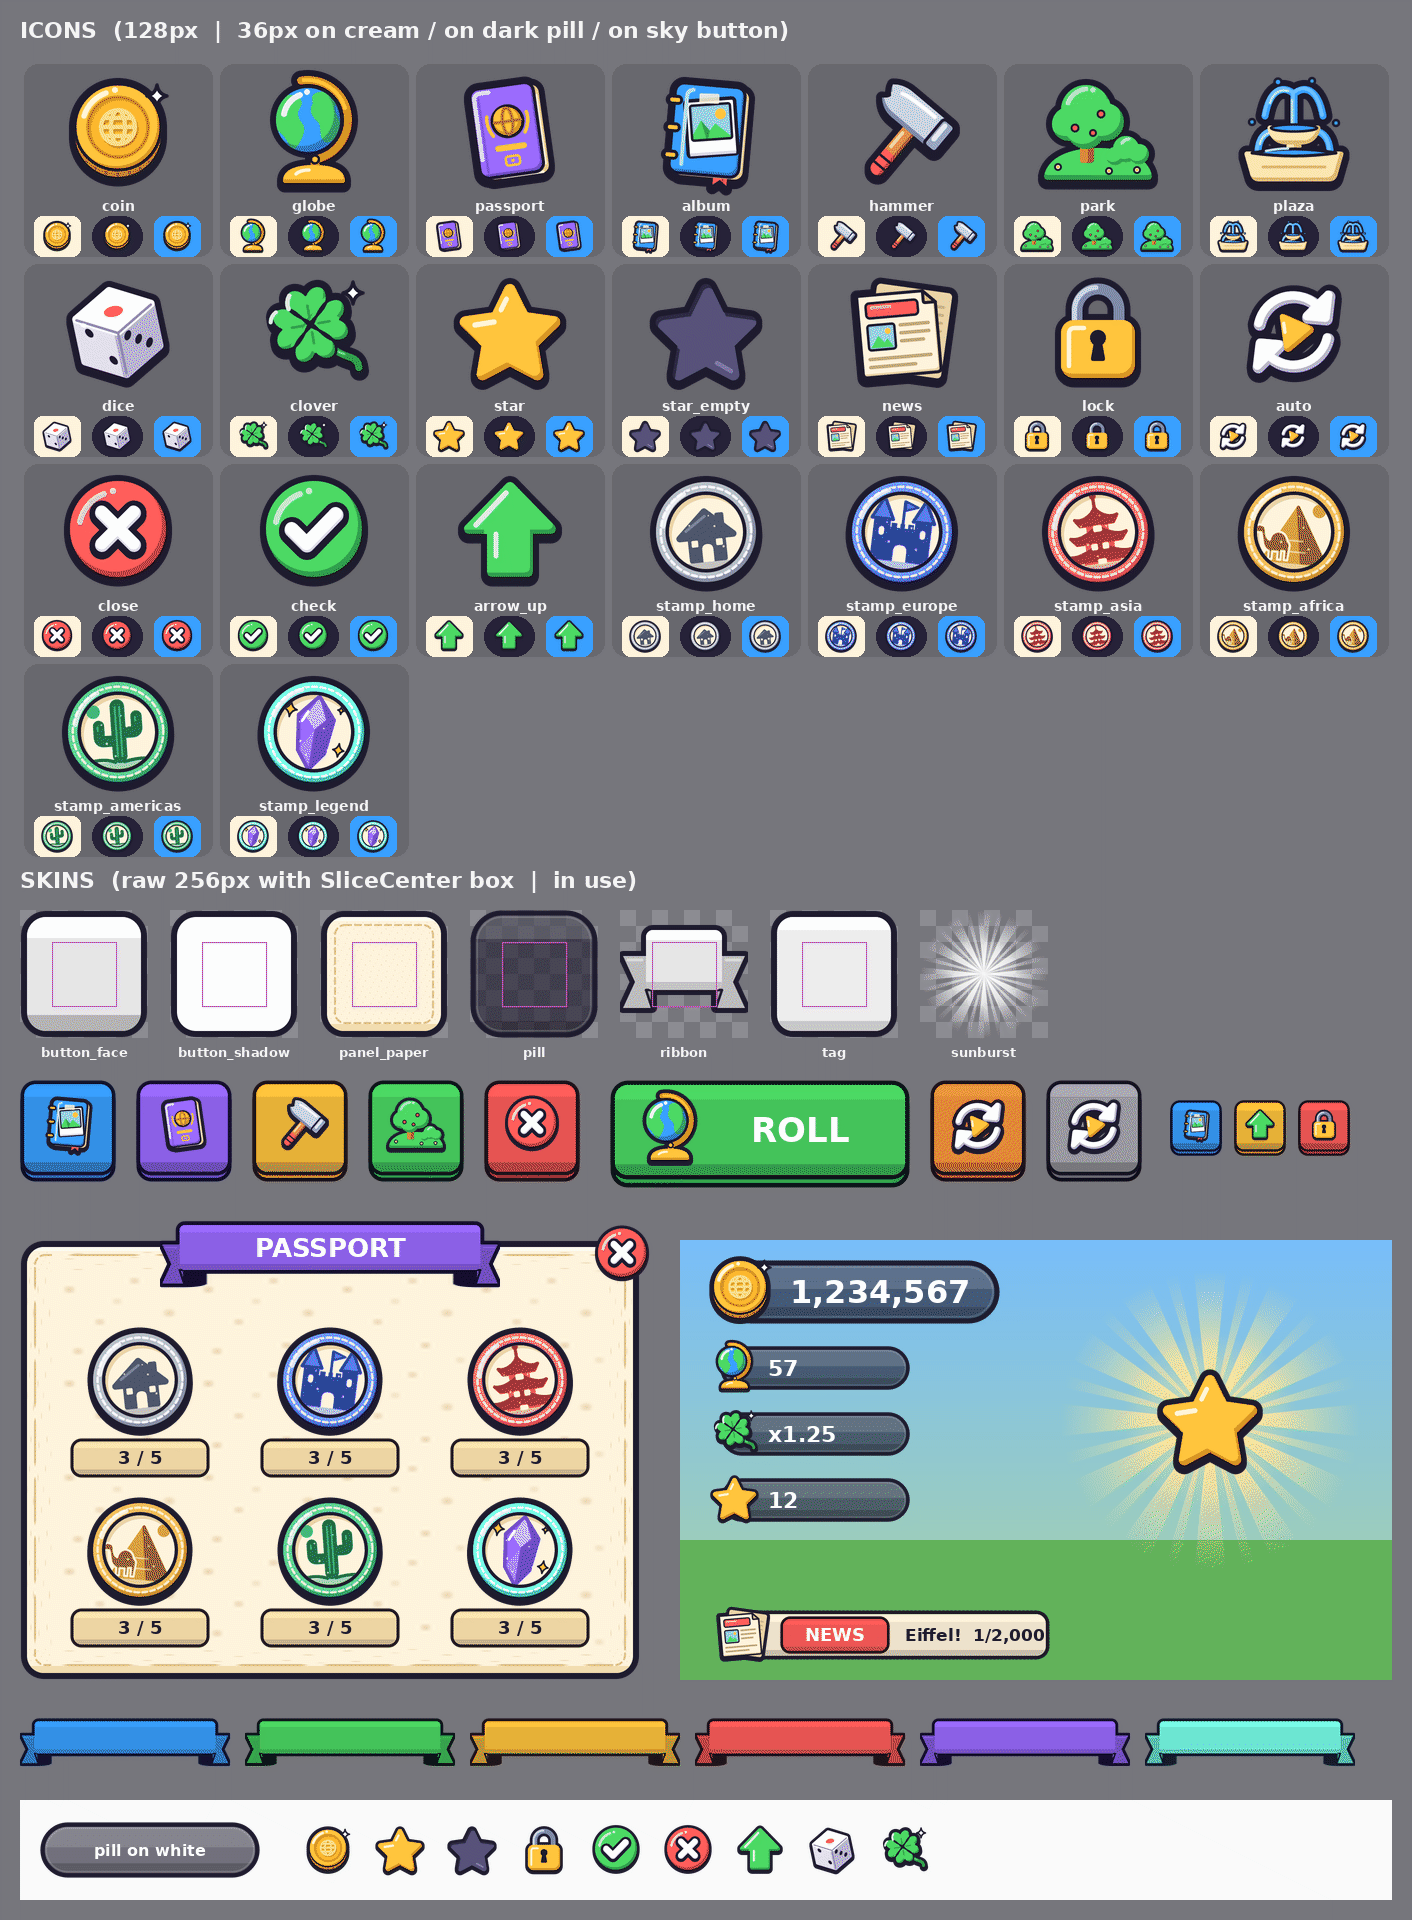
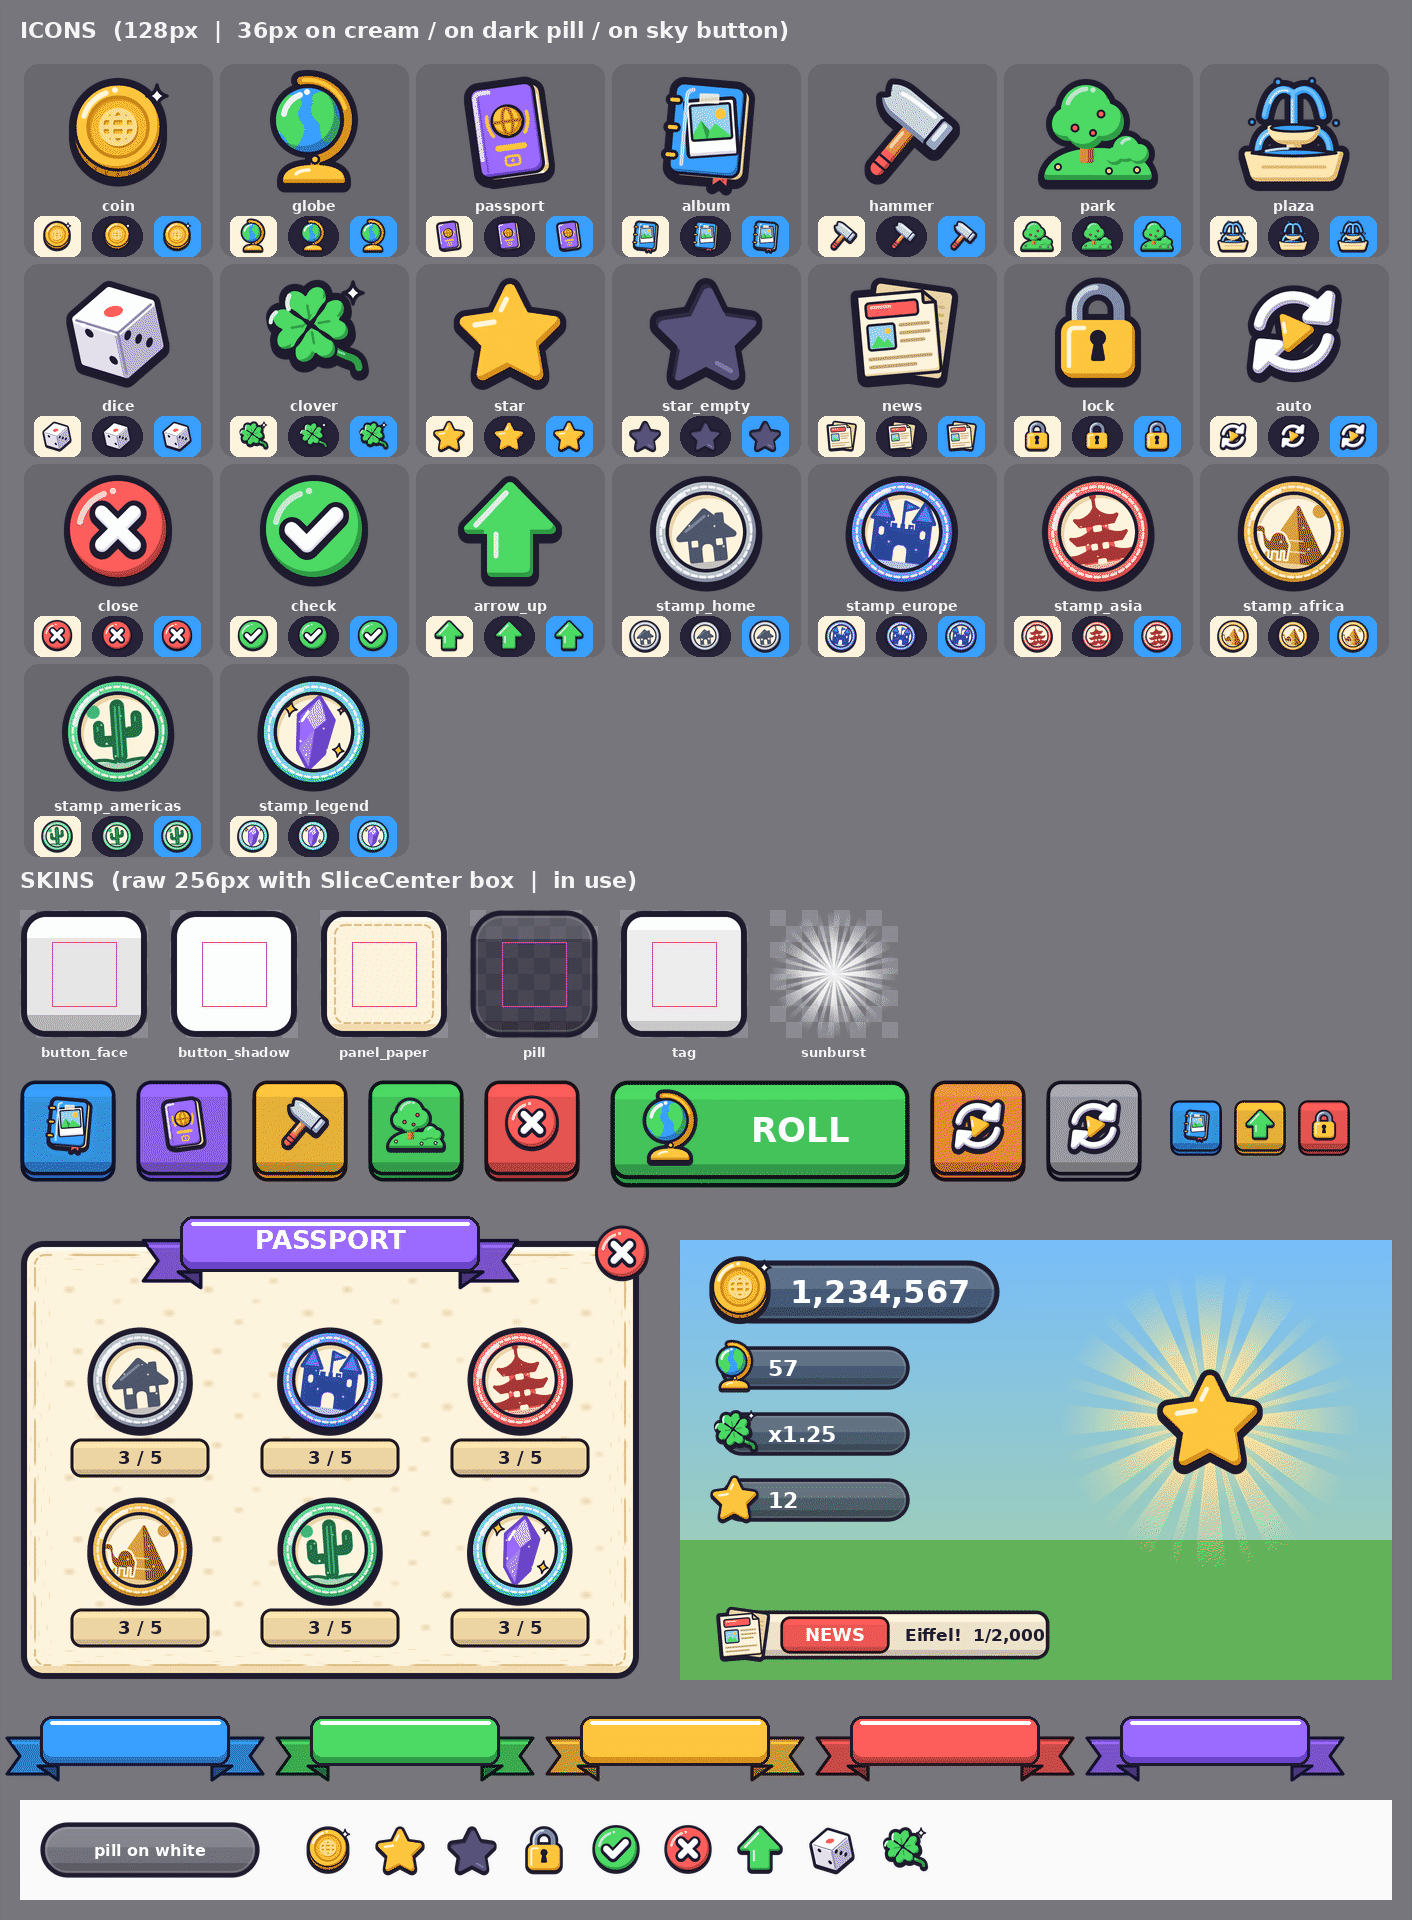
wip(roblox-rng): 제목 리본을 코드 이름판 + 늘이지 않는 V꼬리 그림으로 교체(B안)
Claude-Session: https://claude.ai/code/session_01FVo6f3bAZ7ajFJcNzmyJde

diff --git a/roblox-rng/art/build.py b/roblox-rng/art/build.py
@@ -28,7 +28,6 @@ SLICE = {
     "button_shadow": (64, 64, 192, 192),
     "panel_paper": (64, 64, 192, 192),
     "pill": (64, 64, 192, 192),
-    "ribbon": (64, 64, 192, 192),
     "tag": (64, 64, 192, 192),
 }
 SKINS = list(SLICE) + ["sunburst"]
@@ -137,6 +136,27 @@ def label(d, xy, text, size=15, fill=(245, 245, 245), anchor="mm"):
     d.text(xy, text, font=font(size), fill=fill, anchor=anchor)
 
 
+def ribbon(img, size, color, dark):
+    """Ui.ribbon: code-drawn plate (shadow base + lighter face + gloss + Ink edge) with the two tail images
+    (ribbon_tail_l/r, 56x50 per 50 px of plate height) behind it. Returns (image, (plate x, plate y))."""
+    w, h = size
+    k = h / 50
+    tw, th = round(56 * k), round(50 * k)
+    left, right, top = round(-36 * k), round(-20 * k), round(17 * k)
+    pad = -left
+    out = Image.new("RGBA", (w + 2 * pad, h + top + th), (0, 0, 0, 0))
+    for name, x in (("ribbon_tail_l", 0), ("ribbon_tail_r", pad + w + right)):
+        if name in img:
+            out.alpha_composite(tint(img[name].resize((tw, th), Image.Resampling.LANCZOS), color), (x, top))
+    d = ImageDraw.Draw(out)
+    r, shade, edge = round(12 * k), round(9 * k), 3
+    box = (pad, 0, pad + w - 1, h - 1)
+    d.rounded_rectangle(box, r, fill=dark, outline=INK, width=edge)
+    d.rounded_rectangle((pad + edge, edge, pad + w - 1 - edge, h - 1 - shade), r - edge, fill=color)
+    d.rounded_rectangle((pad + round(10 * k), round(5 * k), pad + w - round(10 * k), round(8 * k)), 2, fill=(255, 255, 255))
+    return out, (pad, 0)
+
+
 def chunky(face, shadow, size, color, dark, scale=0.25, drop=6):
     """Compose a button the way Ui.chunkyButton would (shadow plate + tinted face)."""
     W, H = size
@@ -242,10 +262,9 @@ def build_preview(images):
         pw, ph = 620, 440
         panel = nine_slice(img["panel_paper"], SLICE["panel_paper"], (pw, ph), 0.5)
         paste(canvas, panel, (20, y + 30))
-        if "ribbon" in img:
-            rb = tint(nine_slice(img["ribbon"], SLICE["ribbon"], (340, 96), 96 / 256), GRAPE)
-            paste(canvas, rb, (20 + (pw - 340) // 2, y))
-            label(d, (20 + pw // 2, y + 38), "PASSPORT", 26, fill=(255, 255, 255))
+        rb, (ox, oy) = ribbon(img, (300, 56), GRAPE, GRAPE_D)
+        paste(canvas, rb, (20 + (pw - 300) // 2 - ox, y + 6 - oy))
+        label(d, (20 + pw // 2, y + 30), "PASSPORT", 26, fill=(255, 255, 255))
         if "close" in img:
             paste(canvas, small(img["close"], 64), (20 + pw - 50, y + 12))
         stamps = [n for n in ICON_ORDER if n.startswith("stamp_")]
@@ -298,12 +317,11 @@ def build_preview(images):
 
     # ribbons in all colours
     y += 500
-    if "ribbon" in img:
-        rx = 20
-        for col in [SKY, GRASS, SUN, CORAL, GRAPE, (120, 255, 235)]:
-            rb = tint(nine_slice(img["ribbon"], SLICE["ribbon"], (210, 70), 70 / 256), col)
-            paste(canvas, rb, (rx, y))
-            rx += 225
+    rx = 40
+    for col, dark in [(SKY, SKY_D), (GRASS, GRASS_D), (SUN, SUN_D), (CORAL, CORAL_D), (GRAPE, GRAPE_D)]:
+        rb, (ox, oy) = ribbon(img, (190, 50), col, dark)
+        paste(canvas, rb, (rx - ox, y + 6 - oy))
+        rx += 270
     y += 90
     # checker to show translucency of the pill & raw icons on white
     if "pill" in img:
